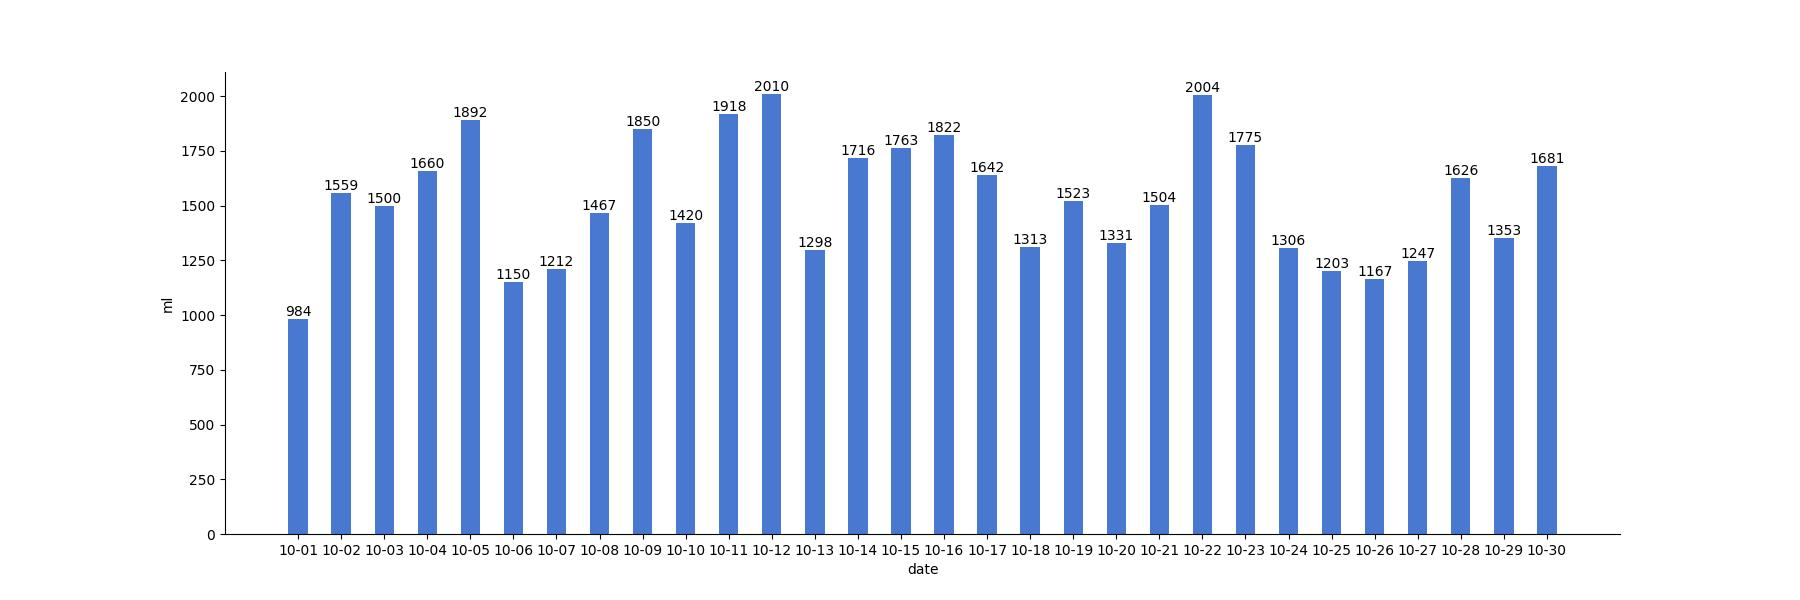
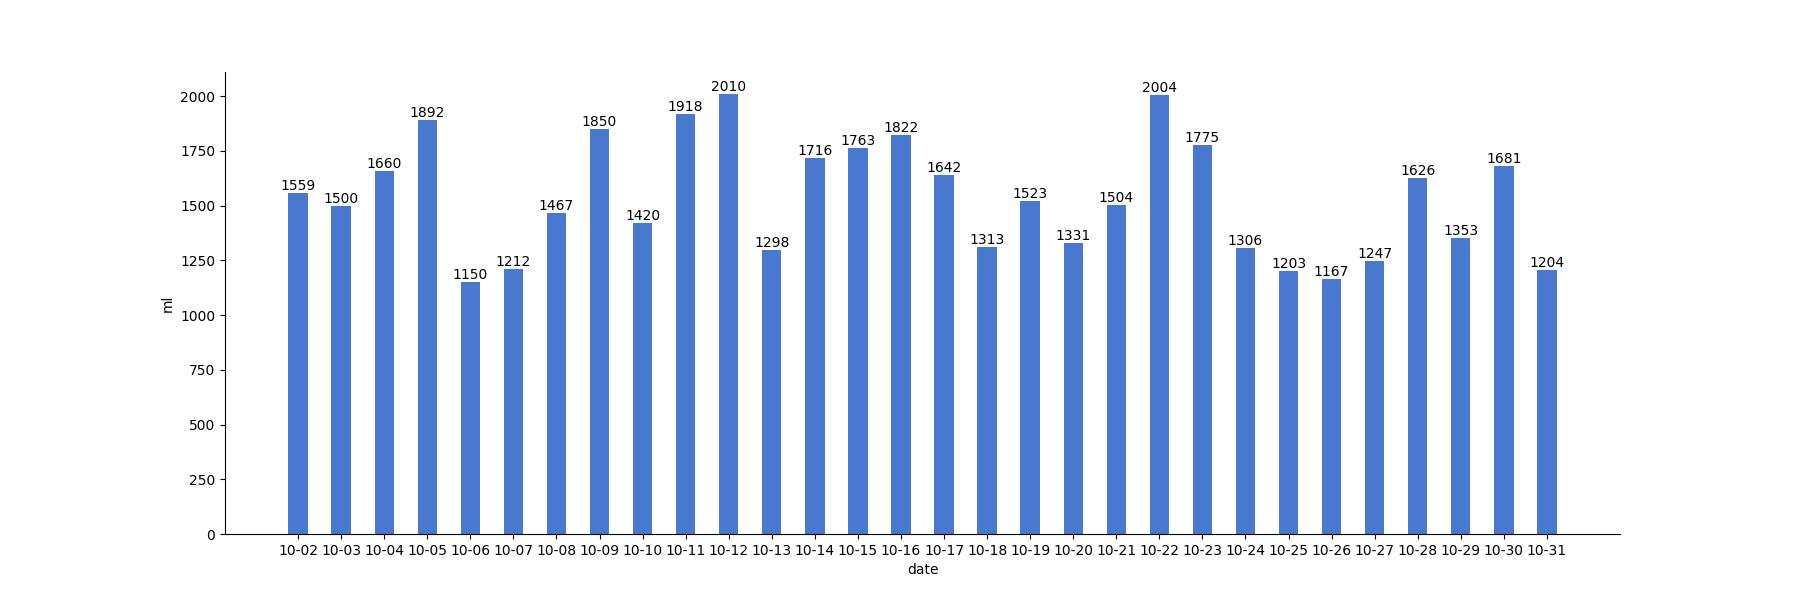
generated readme

diff --git a/historyData/2022/10/10.md b/historyData/2022/10/10.md
@@ -1,0 +1,163 @@
+<div align=center>
+<img src="10.jpg"style="zoom: 100%;" />
+
+| 月总饮水量 | 日均饮水量 |
+| :----: | :----: |
+| 47100 | 1519 |
+</div>
+
+
+| 日期 | all | 08:48:51 | 09:53:36 | 12:51:47 | 14:48:17 | 15:13:11 | 15:54:52 | 16:32:17 | 18:02:29 | 19:57:55 | 20:03:43 | 20:27:31 |
+| :----: | :----: | :----: | :----: | :----: | :----: | :----: | :----: | :----: | :----: | :----: | :----: | :----: |
+| 2022-10-01 | 984 | 146 | 136 | 100 | 16 | 58 | 46 | 31 | 67 | 200 | 67 | 117 |
+
+
+| 日期 | all | 10:20:34 | 10:51:44 | 11:34:12 | 13:04:36 | 14:17:46 | 14:47:45 | 15:47:43 | 16:22:44 | 17:52:27 | 18:23:21 | 21:33:21 | 21:46:40 | 22:46:27 | 23:12:54 |
+| :----: | :----: | :----: | :----: | :----: | :----: | :----: | :----: | :----: | :----: | :----: | :----: | :----: | :----: | :----: | :----: |
+| 2022-10-02 | 1559 | 200 | 63 | 73 | 200 | 62 | 134 | 76 | 27 | 87 | 79 | 200 | 97 | 91 | 170 |
+
+
+| 日期 | all | 09:48:38 | 10:18:30 | 12:19:29 | 12:49:26 | 13:55:09 | 14:28:43 | 14:31:23 | 15:14:08 | 16:14:24 | 16:58:51 | 17:27:18 | 17:58:46 | 19:46:06 | 20:51:42 | 21:21:29 | 22:51:36 |
+| :----: | :----: | :----: | :----: | :----: | :----: | :----: | :----: | :----: | :----: | :----: | :----: | :----: | :----: | :----: | :----: | :----: | :----: |
+| 2022-10-03 | 1500 | 60 | 83 | 293 | 77 | 46 | 49 | 106 | 69 | 96 | 47 | 57 | 100 | 200 | 84 | 80 | 53 |
+
+
+| 日期 | all | 10:54:33 | 11:53:41 | 12:23:28 | 12:52:30 | 13:22:39 | 14:28:51 | 14:48:32 | 15:19:04 | 16:40:44 | 20:40:28 | 21:49:11 | 21:59:00 | 22:18:01 | 22:48:31 | 23:48:26 |
+| :----: | :----: | :----: | :----: | :----: | :----: | :----: | :----: | :----: | :----: | :----: | :----: | :----: | :----: | :----: | :----: | :----: |
+| 2022-10-04 | 1660 | 94 | 200 | 91 | 66 | 79 | 130 | 45 | 98 | 109 | 300 | 29 | 77 | 83 | 162 | 97 |
+
+
+| 日期 | all | 00:24:20 | 08:26:43 | 08:51:51 | 09:59:29 | 10:30:38 | 12:08:56 | 12:38:37 | 14:03:24 | 14:36:20 | 15:07:02 | 15:37:31 | 16:37:26 | 16:40:56 | 17:25:04 | 18:54:55 | 19:24:34 | 19:40:14 | 20:10:37 | 21:30:12 | 22:01:47 | 23:30:15 |
+| :----: | :----: | :----: | :----: | :----: | :----: | :----: | :----: | :----: | :----: | :----: | :----: | :----: | :----: | :----: | :----: | :----: | :----: | :----: | :----: | :----: | :----: | :----: |
+| 2022-10-05 | 1892 | 54 | 37 | 200 | 61 | 42 | 300 | 126 | 36 | 56 | 58 | 67 | 42 | 98 | 86 | 300 | 73 | 44 | 70 | 25 | 56 | 61 |
+
+
+| 日期 | all | 10:21:40 | 12:05:32 | 14:06:21 | 14:07:47 | 14:37:30 | 15:37:29 | 16:08:58 | 16:44:34 | 18:14:31 | 19:06:54 | 19:22:59 | 19:53:20 | 21:28:22 |
+| :----: | :----: | :----: | :----: | :----: | :----: | :----: | :----: | :----: | :----: | :----: | :----: | :----: | :----: | :----: |
+| 2022-10-06 | 1150 | 30 | 63 | 200 | 103 | 29 | 83 | 34 | 76 | 59 | 200 | 71 | 67 | 135 |
+
+
+| 日期 | all | 00:23:08 | 01:52:17 | 10:26:15 | 11:27:48 | 14:38:33 | 15:01:42 | 15:32:00 | 16:34:37 | 18:03:05 | 18:33:29 | 18:47:45 | 22:18:42 | 22:57:46 |
+| :----: | :----: | :----: | :----: | :----: | :----: | :----: | :----: | :----: | :----: | :----: | :----: | :----: | :----: | :----: |
+| 2022-10-07 | 1212 | 80 | 38 | 115 | 42 | 200 | 49 | 96 | 55 | 87 | 56 | 72 | 300 | 22 |
+
+
+| 日期 | all | 00:03:16 | 07:45:13 | 09:38:05 | 09:55:34 | 10:51:13 | 14:46:57 | 17:24:41 | 18:41:27 | 19:41:53 | 21:03:56 | 21:49:10 | 22:08:21 | 22:12:17 | 22:16:39 |
+| :----: | :----: | :----: | :----: | :----: | :----: | :----: | :----: | :----: | :----: | :----: | :----: | :----: | :----: | :----: | :----: |
+| 2022-10-08 | 1467 | 10 | 200 | 30 | 77 | 34 | 123 | 136 | 500 | 28 | 60 | 46 | 64 | 76 | 83 |
+
+
+| 日期 | all | 00:17:48 | 08:29:39 | 09:03:43 | 10:02:20 | 10:11:15 | 11:38:28 | 12:16:26 | 13:12:10 | 15:00:16 | 16:51:04 | 17:17:50 | 18:16:22 | 20:44:25 | 21:30:02 | 22:06:36 | 22:37:08 | 23:10:20 | 23:47:13 |
+| :----: | :----: | :----: | :----: | :----: | :----: | :----: | :----: | :----: | :----: | :----: | :----: | :----: | :----: | :----: | :----: | :----: | :----: | :----: | :----: |
+| 2022-10-09 | 1850 | 75 | 111 | 90 | 77 | 111 | 110 | 200 | 79 | 121 | 126 | 200 | 141 | 52 | 69 | 35 | 82 | 83 | 88 |
+
+
+| 日期 | all | 07:58:38 | 10:01:32 | 12:18:58 | 13:04:18 | 15:03:37 | 17:17:30 | 18:48:16 | 19:50:42 | 21:04:20 | 21:31:44 | 23:02:01 | 23:15:54 |
+| :----: | :----: | :----: | :----: | :----: | :----: | :----: | :----: | :----: | :----: | :----: | :----: | :----: | :----: |
+| 2022-10-10 | 1420 | 63 | 450 | 200 | 105 | 60 | 200 | 64 | 51 | 76 | 56 | 50 | 45 |
+
+
+| 日期 | all | 00:16:52 | 01:04:00 | 08:00:10 | 08:39:54 | 10:00:36 | 12:24:49 | 13:04:50 | 14:17:49 | 17:16:57 | 18:26:43 | 19:53:06 | 21:15:29 | 22:34:28 | 23:32:00 |
+| :----: | :----: | :----: | :----: | :----: | :----: | :----: | :----: | :----: | :----: | :----: | :----: | :----: | :----: | :----: | :----: |
+| 2022-10-11 | 1918 | 89 | 66 | 78 | 121 | 100 | 200 | 134 | 112 | 200 | 149 | 86 | 66 | 500 | 17 |
+
+
+| 日期 | all | 00:10:24 | 00:21:37 | 08:01:43 | 09:59:56 | 12:29:41 | 13:32:59 | 15:14:16 | 16:41:27 | 17:19:42 | 17:39:01 | 20:43:40 | 21:51:34 | 23:25:16 | 23:52:50 |
+| :----: | :----: | :----: | :----: | :----: | :----: | :----: | :----: | :----: | :----: | :----: | :----: | :----: | :----: | :----: | :----: |
+| 2022-10-12 | 2010 | 65 | 64 | 91 | 55 | 200 | 151 | 130 | 55 | 200 | 43 | 75 | 500 | 224 | 157 |
+
+
+| 日期 | all | 07:59:20 | 08:22:44 | 10:09:02 | 12:24:32 | 13:05:42 | 14:01:18 | 15:12:56 | 17:27:33 | 20:17:03 | 21:35:27 | 22:36:06 |
+| :----: | :----: | :----: | :----: | :----: | :----: | :----: | :----: | :----: | :----: | :----: | :----: | :----: |
+| 2022-10-13 | 1298 | 90 | 47 | 76 | 200 | 75 | 180 | 167 | 200 | 111 | 74 | 78 |
+
+
+| 日期 | all | 00:13:04 | 01:11:04 | 08:05:19 | 09:05:37 | 10:12:21 | 12:18:19 | 13:04:09 | 14:10:08 | 15:02:25 | 16:56:40 | 18:34:10 | 19:04:27 | 19:48:55 | 20:29:22 | 20:59:48 | 21:29:24 | 22:30:51 | 22:56:34 | 23:26:33 |
+| :----: | :----: | :----: | :----: | :----: | :----: | :----: | :----: | :----: | :----: | :----: | :----: | :----: | :----: | :----: | :----: | :----: | :----: | :----: | :----: | :----: |
+| 2022-10-14 | 1716 | 84 | 39 | 101 | 51 | 55 | 200 | 55 | 113 | 114 | 108 | 36 | 55 | 100 | 99 | 155 | 88 | 82 | 65 | 116 |
+
+
+| 日期 | all | 00:01:43 | 08:14:54 | 08:43:53 | 10:25:54 | 12:27:31 | 13:03:21 | 14:49:34 | 15:13:04 | 16:21:27 | 16:47:55 | 17:18:22 | 18:59:48 | 19:37:24 | 20:29:29 | 21:51:59 | 22:09:21 | 22:27:51 | 23:34:46 |
+| :----: | :----: | :----: | :----: | :----: | :----: | :----: | :----: | :----: | :----: | :----: | :----: | :----: | :----: | :----: | :----: | :----: | :----: | :----: | :----: |
+| 2022-10-15 | 1763 | 63 | 74 | 132 | 111 | 200 | 116 | 121 | 71 | 152 | 67 | 200 | 65 | 130 | 69 | 43 | 33 | 45 | 71 |
+
+
+| 日期 | all | 01:01:21 | 08:06:45 | 08:53:19 | 09:46:00 | 11:10:53 | 11:35:20 | 12:34:09 | 12:52:20 | 13:40:37 | 15:14:38 | 17:24:11 | 20:16:43 | 21:06:44 | 21:30:19 | 22:06:02 | 22:39:50 |
+| :----: | :----: | :----: | :----: | :----: | :----: | :----: | :----: | :----: | :----: | :----: | :----: | :----: | :----: | :----: | :----: | :----: | :----: |
+| 2022-10-16 | 1822 | 53 | 58 | 63 | 89 | 300 | 71 | 200 | 115 | 82 | 134 | 200 | 140 | 62 | 108 | 87 | 60 |
+
+
+| 日期 | all | 00:12:37 | 01:13:12 | 08:13:16 | 09:05:37 | 10:14:36 | 12:22:12 | 13:08:41 | 15:06:17 | 15:53:55 | 17:19:11 | 19:00:10 | 19:37:58 | 20:43:51 | 21:51:47 | 22:22:13 | 23:04:17 | 23:52:57 |
+| :----: | :----: | :----: | :----: | :----: | :----: | :----: | :----: | :----: | :----: | :----: | :----: | :----: | :----: | :----: | :----: | :----: | :----: | :----: |
+| 2022-10-17 | 1642 | 80 | 47 | 68 | 53 | 126 | 200 | 131 | 157 | 124 | 200 | 138 | 74 | 25 | 73 | 60 | 41 | 45 |
+
+
+| 日期 | all | 00:52:06 | 07:55:11 | 10:02:41 | 10:10:55 | 12:16:27 | 13:06:36 | 17:20:42 | 20:55:10 | 23:23:01 |
+| :----: | :----: | :----: | :----: | :----: | :----: | :----: | :----: | :----: | :----: | :----: |
+| 2022-10-18 | 1313 | 71 | 75 | 100 | 151 | 200 | 156 | 200 | 60 | 300 |
+
+
+| 日期 | all | 00:35:41 | 01:08:59 | 07:59:01 | 07:59:39 | 08:24:47 | 10:00:04 | 12:30:20 | 12:59:50 | 14:52:53 | 16:04:00 | 17:30:30 | 19:40:24 | 21:43:42 | 22:24:43 | 23:05:44 |
+| :----: | :----: | :----: | :----: | :----: | :----: | :----: | :----: | :----: | :----: | :----: | :----: | :----: | :----: | :----: | :----: | :----: |
+| 2022-10-19 | 1523 | 68 | 39 | 44 | 49 | 200 | 154 | 200 | 96 | 101 | 78 | 200 | 58 | 48 | 77 | 111 |
+
+
+| 日期 | all | 00:40:59 | 08:11:51 | 10:15:32 | 12:37:03 | 13:08:06 | 14:05:01 | 15:06:35 | 17:21:32 | 17:32:55 | 20:52:00 | 21:48:08 | 21:48:39 | 22:07:25 | 22:28:59 |
+| :----: | :----: | :----: | :----: | :----: | :----: | :----: | :----: | :----: | :----: | :----: | :----: | :----: | :----: | :----: | :----: |
+| 2022-10-20 | 1331 | 126 | 93 | 133 | 200 | 66 | 46 | 58 | 200 | 57 | 35 | 53 | 63 | 100 | 101 |
+
+
+| 日期 | all | 00:48:39 | 07:52:28 | 10:11:13 | 12:22:22 | 15:06:07 | 15:58:18 | 17:12:12 | 19:01:38 | 20:40:25 | 21:40:52 |
+| :----: | :----: | :----: | :----: | :----: | :----: | :----: | :----: | :----: | :----: | :----: | :----: |
+| 2022-10-21 | 1504 | 54 | 159 | 88 | 200 | 300 | 64 | 98 | 71 | 400 | 70 |
+
+
+| 日期 | all | 00:04:58 | 00:24:37 | 07:56:28 | 08:08:13 | 09:26:34 | 11:16:55 | 12:30:58 | 12:43:43 | 12:46:10 | 15:04:18 | 15:14:09 | 17:26:00 | 19:18:29 | 20:40:35 |
+| :----: | :----: | :----: | :----: | :----: | :----: | :----: | :----: | :----: | :----: | :----: | :----: | :----: | :----: | :----: | :----: |
+| 2022-10-22 | 2004 | 117 | 88 | 83 | 145 | 91 | 70 | 200 | 77 | 112 | 88 | 133 | 200 | 400 | 200 |
+
+
+| 日期 | all | 00:03:24 | 00:20:24 | 01:27:05 | 08:59:00 | 10:10:14 | 12:55:03 | 13:19:25 | 13:42:09 | 16:06:48 | 17:16:51 | 18:43:42 | 19:39:56 | 20:44:18 | 21:39:09 | 22:10:57 | 22:43:23 | 23:14:11 | 23:55:17 |
+| :----: | :----: | :----: | :----: | :----: | :----: | :----: | :----: | :----: | :----: | :----: | :----: | :----: | :----: | :----: | :----: | :----: | :----: | :----: | :----: |
+| 2022-10-23 | 1775 | 93 | 82 | 49 | 184 | 200 | 200 | 38 | 43 | 48 | 200 | 71 | 117 | 55 | 100 | 70 | 134 | 44 | 47 |
+
+
+| 日期 | all | 01:30:24 | 08:00:31 | 08:20:48 | 10:24:28 | 12:25:56 | 13:02:21 | 14:39:48 | 15:13:54 | 17:15:45 | 17:58:54 | 18:47:03 | 20:29:55 | 21:01:59 | 21:58:35 | 22:49:11 | 22:54:47 |
+| :----: | :----: | :----: | :----: | :----: | :----: | :----: | :----: | :----: | :----: | :----: | :----: | :----: | :----: | :----: | :----: | :----: | :----: |
+| 2022-10-24 | 1306 | 51 | 67 | 200 | 64 | 200 | 35 | 71 | 58 | 200 | 54 | 35 | 37 | 42 | 47 | 88 | 57 |
+
+
+| 日期 | all | 07:58:18 | 08:51:44 | 10:33:08 | 12:33:13 | 13:04:35 | 15:21:01 | 17:25:43 | 20:38:36 | 22:42:04 | 23:16:50 | 23:51:45 |
+| :----: | :----: | :----: | :----: | :----: | :----: | :----: | :----: | :----: | :----: | :----: | :----: | :----: |
+| 2022-10-25 | 1203 | 48 | 200 | 133 | 200 | 68 | 50 | 200 | 71 | 80 | 61 | 92 |
+
+
+| 日期 | all | 00:36:14 | 08:02:40 | 10:15:23 | 12:17:49 | 13:06:28 | 14:23:55 | 15:11:45 | 17:47:54 | 18:44:16 | 19:44:29 | 20:39:20 | 22:03:26 | 22:33:19 | 23:03:38 | 23:40:19 |
+| :----: | :----: | :----: | :----: | :----: | :----: | :----: | :----: | :----: | :----: | :----: | :----: | :----: | :----: | :----: | :----: | :----: |
+| 2022-10-26 | 1167 | 74 | 87 | 128 | 200 | 90 | 45 | 64 | 69 | 72 | 68 | 49 | 44 | 68 | 60 | 49 |
+
+
+| 日期 | all | 00:40:14 | 08:02:30 | 08:29:52 | 10:43:45 | 11:27:30 | 12:22:48 | 13:06:16 | 15:11:08 | 17:27:14 | 21:41:49 | 21:55:26 | 22:16:37 | 23:03:18 |
+| :----: | :----: | :----: | :----: | :----: | :----: | :----: | :----: | :----: | :----: | :----: | :----: | :----: | :----: | :----: |
+| 2022-10-27 | 1247 | 66 | 77 | 200 | 86 | 71 | 200 | 83 | 46 | 200 | 55 | 67 | 44 | 52 |
+
+
+| 日期 | all | 00:04:06 | 08:11:50 | 08:20:38 | 10:16:07 | 11:12:54 | 12:19:12 | 13:12:10 | 14:13:56 | 15:13:27 | 15:59:10 | 16:33:48 | 16:42:12 | 18:03:42 | 19:03:18 | 20:05:24 | 20:43:00 | 21:46:36 | 23:06:43 | 23:35:12 | 23:49:24 |
+| :----: | :----: | :----: | :----: | :----: | :----: | :----: | :----: | :----: | :----: | :----: | :----: | :----: | :----: | :----: | :----: | :----: | :----: | :----: | :----: | :----: | :----: |
+| 2022-10-28 | 1626 | 82 | 200 | 66 | 51 | 83 | 200 | 68 | 70 | 64 | 101 | 28 | 38 | 96 | 100 | 58 | 55 | 92 | 89 | 18 | 67 |
+
+
+| 日期 | all | 08:03:00 | 08:24:34 | 10:13:55 | 12:23:58 | 13:03:32 | 14:12:47 | 15:13:18 | 16:56:46 | 17:21:40 | 20:10:36 | 21:06:43 | 21:45:50 | 21:58:30 | 22:52:08 | 23:46:13 |
+| :----: | :----: | :----: | :----: | :----: | :----: | :----: | :----: | :----: | :----: | :----: | :----: | :----: | :----: | :----: | :----: | :----: |
+| 2022-10-29 | 1353 | 77 | 200 | 67 | 200 | 55 | 55 | 60 | 59 | 200 | 76 | 46 | 44 | 116 | 45 | 53 |
+
+
+| 日期 | all | 08:00:20 | 08:46:31 | 10:43:53 | 12:13:11 | 13:03:08 | 14:11:17 | 15:11:41 | 17:22:12 | 19:44:24 | 21:22:42 | 22:26:57 | 23:40:04 |
+| :----: | :----: | :----: | :----: | :----: | :----: | :----: | :----: | :----: | :----: | :----: | :----: | :----: | :----: |
+| 2022-10-30 | 1681 | 78 | 250 | 49 | 200 | 300 | 73 | 53 | 200 | 77 | 250 | 66 | 85 |
+
+
+| 日期 | all | 00:26:43 | 01:08:55 | 07:35:12 | 11:06:38 | 12:36:33 | 13:07:32 | 13:54:23 | 14:54:24 | 15:25:48 | 15:50:40 | 16:18:23 | 16:48:34 | 17:51:04 | 20:31:57 | 21:49:13 | 22:28:34 | 22:41:37 |
+| :----: | :----: | :----: | :----: | :----: | :----: | :----: | :----: | :----: | :----: | :----: | :----: | :----: | :----: | :----: | :----: | :----: | :----: | :----: |
+| 2022-10-31 | 1204 | 72 | 62 | 20 | 31 | 200 | 82 | 72 | 58 | 33 | 116 | 96 | 57 | 37 | 48 | 103 | 56 | 61 |
+

diff --git a/README.md b/README.md
@@ -1,17 +1,3 @@
-# 今日饮水数据
-
-<div align=center>
-<img src="today.jpg" style="zoom: 100%;" />
-
-| 今日总饮水量 | 每小时平均饮水量 |
-| :----: | :----: |
-| 1204 | 92 |
-</div>
-
-| 日期 | 00:26:43 | 01:08:55 | 07:35:12 | 11:06:38 | 12:36:33 | 13:07:32 | 13:54:23 | 14:54:24 | 15:25:48 | 15:50:40 | 16:18:23 | 16:48:34 | 17:51:04 | 20:31:57 | 21:49:13 | 22:28:34 | 22:41:37 |
-| :----: | :----: | :----: | :----: | :----: | :----: | :----: | :----: | :----: | :----: | :----: | :----: | :----: | :----: | :----: | :----: | :----: | :----: |
-| 2022-10-31 | 72 | 62 | 20 | 31 | 200 | 82 | 72 | 58 | 33 | 116 | 96 | 57 | 37 | 48 | 103 | 56 | 61 |
-
 # 近30日饮水数据
 
 <div align=center>
@@ -19,8 +5,12 @@
 
 | 总饮水量 | 日均饮水量 |
 | :----: | :----: |
-| 45896 | 1529 |
+| 46116 | 1537 |
 </div>
+
+| 日期 | all | 00:26:43 | 01:08:55 | 07:35:12 | 11:06:38 | 12:36:33 | 13:07:32 | 13:54:23 | 14:54:24 | 15:25:48 | 15:50:40 | 16:18:23 | 16:48:34 | 17:51:04 | 20:31:57 | 21:49:13 | 22:28:34 | 22:41:37 |
+| :----: | :----: | :----: | :----: | :----: | :----: | :----: | :----: | :----: | :----: | :----: | :----: | :----: | :----: | :----: | :----: | :----: | :----: | :----: |
+| 2022-10-31 | 1204 | 72 | 62 | 20 | 31 | 200 | 82 | 72 | 58 | 33 | 116 | 96 | 57 | 37 | 48 | 103 | 56 | 61 |
 
 | 日期 | all | 08:00:20 | 08:46:31 | 10:43:53 | 12:13:11 | 13:03:08 | 14:11:17 | 15:11:41 | 17:22:12 | 19:44:24 | 21:22:42 | 22:26:57 | 23:40:04 |
 | :----: | :----: | :----: | :----: | :----: | :----: | :----: | :----: | :----: | :----: | :----: | :----: | :----: | :----: |
@@ -141,8 +131,4 @@
 | 日期 | all | 08:48:51 | 09:53:36 | 12:51:47 | 14:48:17 | 15:13:11 | 15:54:52 | 16:32:17 | 18:02:29 | 19:57:55 | 20:03:43 | 20:27:31 |
 | :----: | :----: | :----: | :----: | :----: | :----: | :----: | :----: | :----: | :----: | :----: | :----: | :----: |
 | 2022-10-01 | 984 | 146 | 136 | 100 | 16 | 58 | 46 | 31 | 67 | 200 | 67 | 117 |
-
-| 日期 | all | 08:15:02 | 10:01:19 | 10:32:11 | 12:26:15 | 13:00:24 | 14:58:53 | 16:08:39 | 16:52:52 | 18:27:35 | 21:20:30 | 22:50:21 | 23:59:56 |
-| :----: | :----: | :----: | :----: | :----: | :----: | :----: | :----: | :----: | :----: | :----: | :----: | :----: | :----: |
-| 2022-09-30 | 1383 | 100 | 115 | 200 | 200 | 78 | 130 | 38 | 58 | 96 | 32 | 300 | 36 |
 
